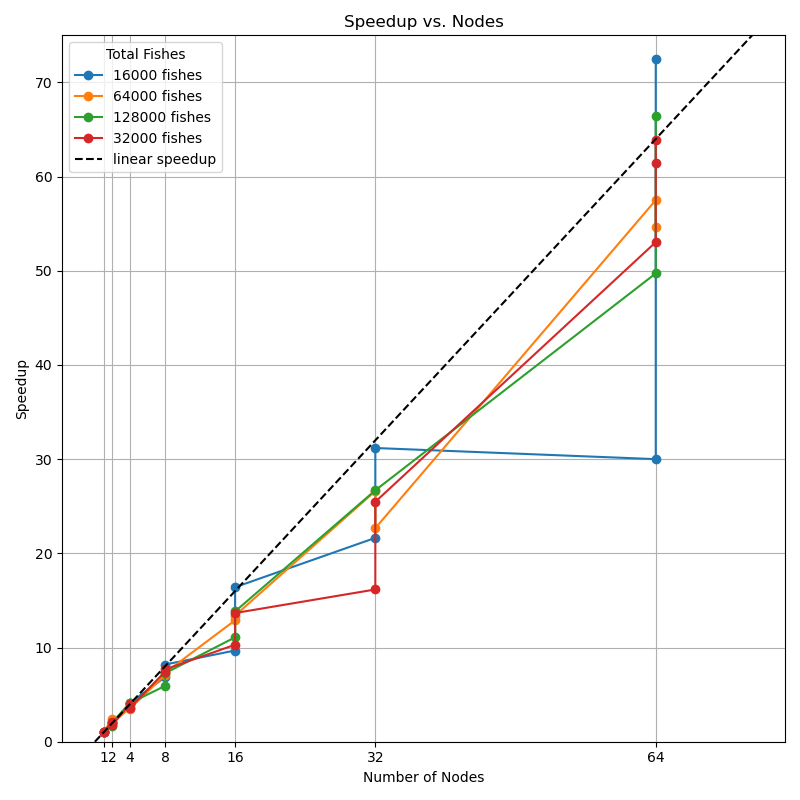
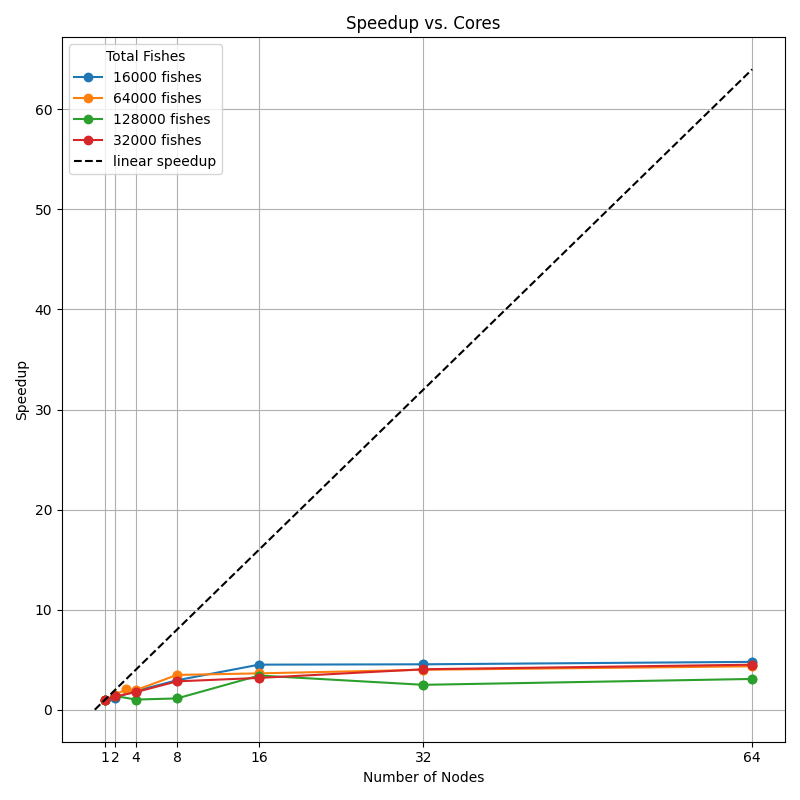
fix allo script per la speedup vs cores

diff --git a/graphs/speedup_vs_cores_openmp_strong.py b/graphs/speedup_vs_cores_openmp_strong.py
@@ -14,11 +14,11 @@ with open('../implementations/hybrid/results_modified.json') as f:
 grouped_data = defaultdict(list)
 
 for run_id, values in data.items():
-    if values["cores"] == 1:
+    if values["nodes"] == 1:
         total_fishes = values["total_fishes"]
-        nodes = values["nodes"]
+        cores = values["cores"]
         speedup = values["speedup"]
-        grouped_data[total_fishes].append((nodes, speedup))
+        grouped_data[total_fishes].append((cores, speedup))
 
 # Plotting
 plt.figure(figsize=(8, 8))
@@ -26,21 +26,20 @@ plt.figure(figsize=(8, 8))
 for total_fishes, points in grouped_data.items():
     # Sort by number of cores for consistent lines
     points.sort(key=lambda x: x[0])
-    cores, efficiencies = zip(*points)
-    plt.plot(cores, efficiencies, marker='o', label=f'{total_fishes} fishes')
+    cores, speedups = zip(*points)
+    plt.plot(cores, speedups, marker='o', label=f'{total_fishes} fishes')
 
 
-max_val = max(64,75)
+max_val = 75
 plt.plot([0, max_val], [0, max_val], 'k--', label="linear speedup")
 
-plt.ylim(0, 75)
 plt.xticks([1, 2, 4, 8, 16, 32, 64])
 plt.grid(True, which='both', axis='x')
 plt.xlabel('Number of Nodes')
 plt.ylabel('Speedup')
-plt.title(f"Speedup vs. Nodes")
+plt.title("Speedup vs. Cores")
 plt.legend(title='Total Fishes')
 plt.grid(True)
 plt.tight_layout()
 # plt.show()
-plt.savefig(f"images/speedup_vs_nodes_openmp_strong.png", dpi=100)
+plt.savefig("images/speedup_vs_nodes_openmp_strong.png", dpi=100)
